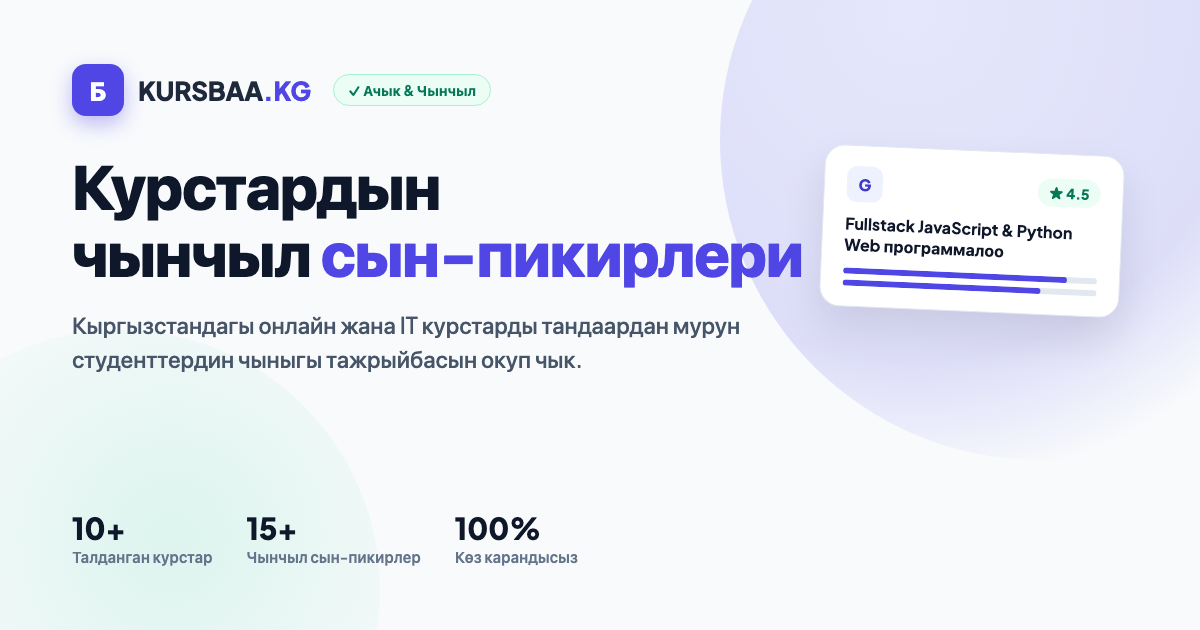
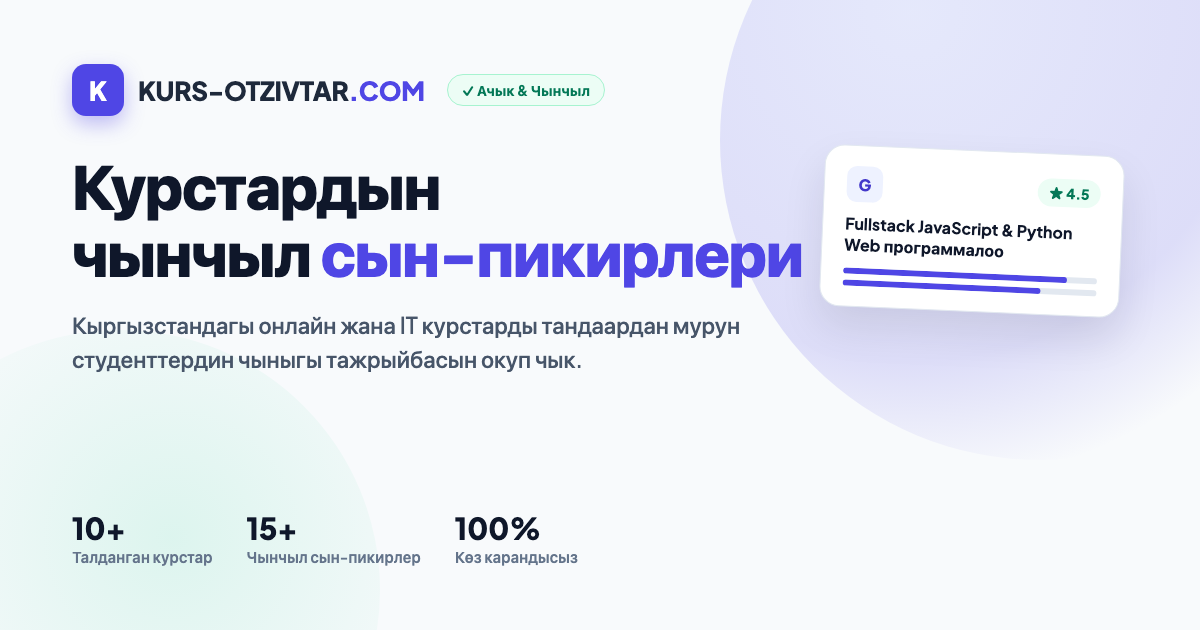
Rebrand from KursBaa to Kurs-Otzivtar, redirect vercel.app to custom domain
Replace all KursBaa/kursbaa references (title, nav, footer, OG image,
localStorage keys) with the new Kurs-Otzivtar.com brand matching the
purchased domain. Also add vercel.json redirects so visitors to the
kurs-otzivtar.vercel.app and kurs-otzivtar-seyitbeks-projects.vercel.app
URLs land on kurs-otzivtar.com instead.

Changed region(s): [[0.1542, 0.1206, 0.4933, 0.181], [0.0617, 0.1206, 0.0925, 0.1508]]

diff --git a/index.html b/index.html
@@ -3,9 +3,9 @@
   <head>
     <meta charset="UTF-8" />
     <meta name="viewport" content="width=device-width, initial-scale=1.0" />
-    <title>KursBaa - Кыргызстандагы онлайн курстардын сын-пикирлери</title>
+    <title>Kurs-Otzivtar - Кыргызстандагы онлайн курстардын сын-пикирлери</title>
     <meta name="description" content="Кыргызстандагы онлайн жана IT курстардын ачык жана чынчыл сын-пикирлери, студенттердин пикирлери жана сапат рейтинги." />
-    <meta property="og:title" content="KursBaa - Кыргызстандагы онлайн курстардын сын-пикирлери" />
+    <meta property="og:title" content="Kurs-Otzivtar - Кыргызстандагы онлайн курстардын сын-пикирлери" />
     <meta property="og:description" content="Кыргызстандагы онлайн жана IT курстардын ачык жана чынчыл сын-пикирлери, студенттердин пикирлери жана сапат рейтинги." />
     <meta property="og:type" content="website" />
     <meta property="og:url" content="https://kurs-otzivtar.com/" />
@@ -13,7 +13,7 @@
     <meta property="og:image:width" content="1200" />
     <meta property="og:image:height" content="630" />
     <meta name="twitter:card" content="summary_large_image" />
-    <meta name="twitter:title" content="KursBaa - Кыргызстандагы онлайн курстардын сын-пикирлери" />
+    <meta name="twitter:title" content="Kurs-Otzivtar - Кыргызстандагы онлайн курстардын сын-пикирлери" />
     <meta name="twitter:description" content="Кыргызстандагы онлайн жана IT курстардын ачык жана чынчыл сын-пикирлери, студенттердин пикирлери жана сапат рейтинги." />
     <meta name="twitter:image" content="https://kurs-otzivtar.com/og-image.png" />
     <link rel="canonical" href="https://kurs-otzivtar.com/" />

diff --git a/src/App.tsx b/src/App.tsx
@@ -19,8 +19,8 @@ import {
   AlertCircle
 } from 'lucide-react';
 
-const STORAGE_KEY = 'kursbaa_courses_v2';
-const LANG_STORAGE_KEY = 'kursbaa_lang';
+const STORAGE_KEY = 'kursotzivtar_courses_v2';
+const LANG_STORAGE_KEY = 'kursotzivtar_lang';
 
 export default function App() {
   // Language state
@@ -483,7 +483,7 @@ export default function App() {
           <div className="flex flex-col md:flex-row items-center justify-between gap-6">
             <div>
               <div className="flex items-center gap-2.5">
-                <span className="text-lg font-bold text-slate-900 tracking-tight">KursBaa.kg</span>
+                <span className="text-lg font-bold text-slate-900 tracking-tight">Kurs-Otzivtar.com</span>
                 <span className="text-2xs font-semibold bg-indigo-50 text-indigo-700 border border-indigo-100 px-2.5 py-0.5 rounded-full">
                   Кыргызстан
                 </span>
@@ -494,7 +494,7 @@ export default function App() {
             </div>
 
             <div className="text-xs text-slate-400 text-center md:text-right">
-              <div>© {new Date().getFullYear()} KursBaa.kg. Бардык укуктар корголгон.</div>
+              <div>© {new Date().getFullYear()} Kurs-Otzivtar.com. Бардык укуктар корголгон.</div>
               <div className="mt-1">
                 Эгер шектүү курска же алдамчылыкка туш болсоңуз, сын-пикир калтырып элге эскертиңиз!
               </div>

diff --git a/src/translations.ts b/src/translations.ts
@@ -2,7 +2,7 @@ export type SupportedLang = 'ky' | 'ru' | 'en';
 
 export const TRANSLATIONS = {
   ky: {
-    siteTitle: 'KursBaa.kg',
+    siteTitle: 'Kurs-Otzivtar.com',
     siteSubtitle: 'Кыргызстандагы онлайн курстардын чынчыл сын-пикирлери',
     tagline: 'Билим берүүдөгү ачык-айкындуулук жана студенттердин чыныгы тажрыйбасы',
     searchPlaceholder: 'Курстун, академиянын же технологиянын атын издеңиз (мис: Python, Geeks, SMM)...',
@@ -138,7 +138,7 @@ export const TRANSLATIONS = {
     }
   },
   ru: {
-    siteTitle: 'KursBaa.kg',
+    siteTitle: 'Kurs-Otzivtar.com',
     siteSubtitle: 'Честные отзывы об онлайн-курсах в Кыргызстане',
     tagline: 'Прозрачность в образовании и реальный опыт студентов',
     searchPlaceholder: 'Поиск по названию курса, школы или технологии (например: Python, Geeks, SMM)...',
@@ -274,7 +274,7 @@ export const TRANSLATIONS = {
     }
   },
   en: {
-    siteTitle: 'KursBaa.kg',
+    siteTitle: 'Kurs-Otzivtar.com',
     siteSubtitle: 'Honest Reviews for Online Courses in Kyrgyzstan',
     tagline: 'Transparency in education and real student experiences',
     searchPlaceholder: 'Search by course name, school or tech (e.g. Python, Geeks, SMM)...',

diff --git a/src/components/Navbar.tsx b/src/components/Navbar.tsx
@@ -24,7 +24,7 @@ export const Navbar: React.FC<NavbarProps> = ({
           {/* Logo & Brand matching Clean Minimalism */}
           <div className="flex items-center gap-3">
             <div className="w-8 h-8 bg-indigo-600 rounded-lg flex items-center justify-center text-white font-bold shadow-xs">
-              <span>Б</span>
+              <span>K</span>
             </div>
             <div>
               <div className="flex items-center gap-2">
